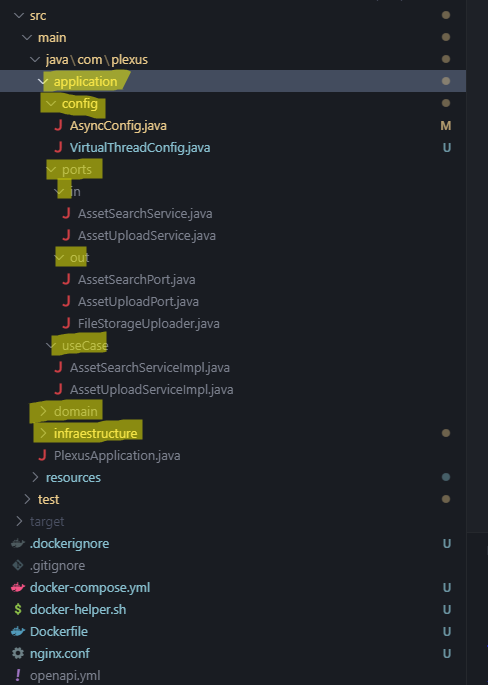
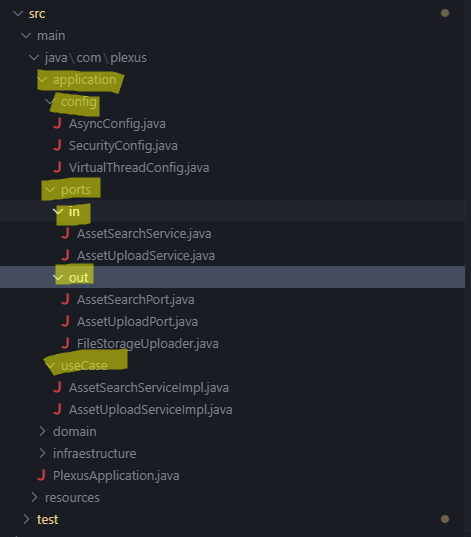
Readme image

diff --git a/README.md b/README.md
@@ -20,7 +20,7 @@ The design has the 3 main layers:application, infraestructure and domain
 
 - Application: The internals behavior of the application, definitions and interfaces
 - - config
-- - - Threads and async behavior
+- - - Threads, security and async behavior
 - - ports
 - - - These contains the in ports, the contract with the client, the deffinition of what will the app do
 - - - And also the out ports: he definition of what will we need from external services (suchs as aws or the database)
